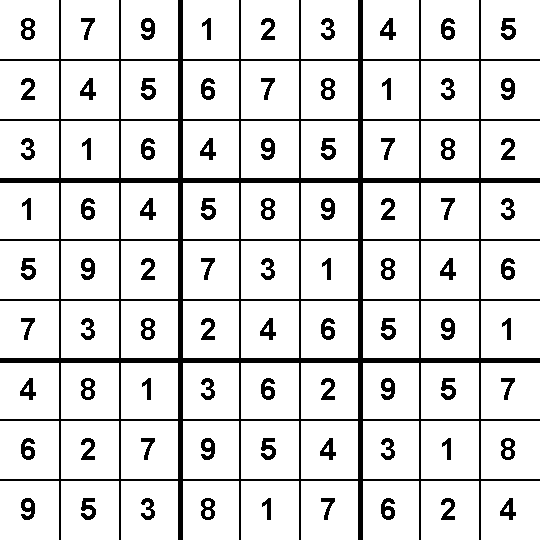
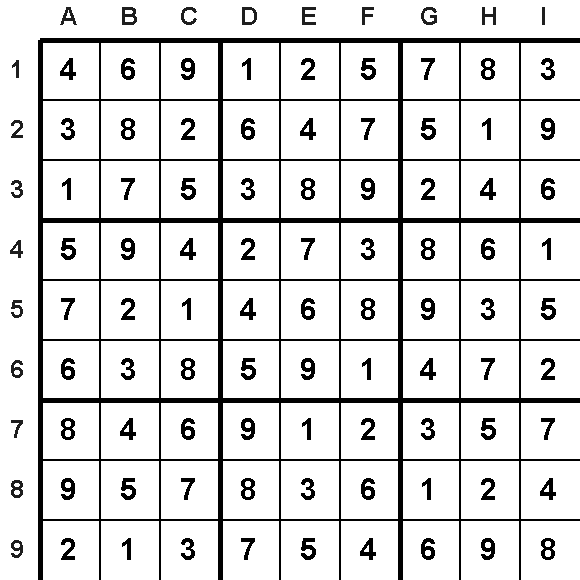
fff

Changed region(s): [[0.0, 0.0, 1.0, 1.0]]

diff --git a/imageGen.cs b/imageGen.cs
@@ -29,9 +29,10 @@ namespace Sudoku.Image
         private void GenerateCompleteImage()
         {
             int cellSize = 60, gridSize = cellSize * 9;
+            int boardSize = gridSize + 40;
 
-            using (SKBitmap bitmap = new SKBitmap(gridSize, gridSize))
-            using (SKCanvas canvas = GenerateGrid(bitmap, cellSize, gridSize))
+            using (SKBitmap bitmap = new SKBitmap(boardSize, boardSize))
+            using (SKCanvas canvas = GenerateGrid(bitmap, cellSize, boardSize))
             using (SKPaint paint = new SKPaint())
             {
                 paint.Color = SKColors.Black;
@@ -48,12 +49,10 @@ namespace Sudoku.Image
                         for (int col = 0; col < 9; col++)
                         {
                             int number = Board[row, col];
-                            if (number != 0)
-                            {
-                                float x = col * cellSize + (cellSize / 3);
-                                float y = row * cellSize + (cellSize / 1.5f);
-                                canvas.DrawText(number.ToString(), x, y, textPaint);
-                            }
+
+                            float x = col * cellSize + (cellSize / 3);
+                            float y = row * cellSize + (cellSize / 1.5f);
+                            canvas.DrawText(number.ToString(), x + 40, y + 40, textPaint);
                         }
                     }
                 }
@@ -73,9 +72,10 @@ namespace Sudoku.Image
             RandomizeBoard(numo);
 
             int cellSize = 60, gridSize = cellSize * 9;
+            int boardSize = gridSize + 40;
 
-            using (SKBitmap bitmap = new SKBitmap(gridSize, gridSize))
-            using (SKCanvas canvas = GenerateGrid(bitmap, cellSize, gridSize))
+            using (SKBitmap bitmap = new SKBitmap(boardSize, boardSize))
+            using (SKCanvas canvas = GenerateGrid(bitmap, cellSize, boardSize))
             using (SKPaint paint = new SKPaint())
             {
                 paint.Color = SKColors.Black;
@@ -96,7 +96,7 @@ namespace Sudoku.Image
                             {
                                 float x = col * cellSize + (cellSize / 3);
                                 float y = row * cellSize + (cellSize / 1.5f);
-                                canvas.DrawText(number.ToString(), x, y, textPaint);
+                                canvas.DrawText(number.ToString(), x + 40, y + 40, textPaint);
                             }
                         }
                     }
@@ -129,7 +129,7 @@ namespace Sudoku.Image
                     }
         }
 
-        private SKCanvas GenerateGrid(SKBitmap bitmap, int cellSize, int gridSize)
+        private SKCanvas GenerateGrid(SKBitmap bitmap, int cellSize, int boardSize)
         {
             SKCanvas canvas = new SKCanvas(bitmap);
             using (SKPaint paint = new SKPaint())
@@ -137,16 +137,41 @@ namespace Sudoku.Image
                 canvas.Clear(SKColors.White);
 
                 paint.Color = SKColors.Black;
+                paint.StrokeWidth = 5;
+
+                canvas.DrawLine(40, 40, boardSize, 40, paint);
+                canvas.DrawLine(40, 40, 40, boardSize, paint);
+                
                 for (int i = 1; i < 9; i++)
                 {
                     if(i % 3 != 0) paint.StrokeWidth = 2;
                     else paint.StrokeWidth = 5;
 
                     
-                    int linePosition = i * cellSize;
-                    canvas.DrawLine(linePosition, 0, linePosition, gridSize, paint);
-                    canvas.DrawLine(0, linePosition, gridSize, linePosition, paint);
+                    int linePosition = (i * cellSize); //60
+                    canvas.DrawLine(linePosition + 40, 0 + 40, linePosition + 40, boardSize, paint); //vertical line
+                    canvas.DrawLine(0 + 40, linePosition + 40, boardSize, linePosition + 40, paint); //horizontal line
                 }
+
+                using (SKTypeface typeface = SKTypeface.FromFamilyName("Arial", SKFontStyleWeight.Bold, SKFontStyleWidth.Normal, SKFontStyleSlant.Upright))
+                using (SKPaint textPaint = new SKPaint())
+                {
+
+                    textPaint.Color = new SKColor(30, 30, 30);
+                    textPaint.TextSize = 25;
+                    textPaint.Typeface = typeface;
+
+                    for(int a = 0; a <= 8; a++)
+                    {
+                        float x = (cellSize * a) + 60;
+                        var letter = (char)(65 + a);
+
+                        canvas.DrawText(letter.ToString(), x, 25, textPaint);
+                        canvas.DrawText($"{a + 1}", 10, x + 18, textPaint);
+                    }
+                    
+                }
+                
             }
 
             return canvas;
